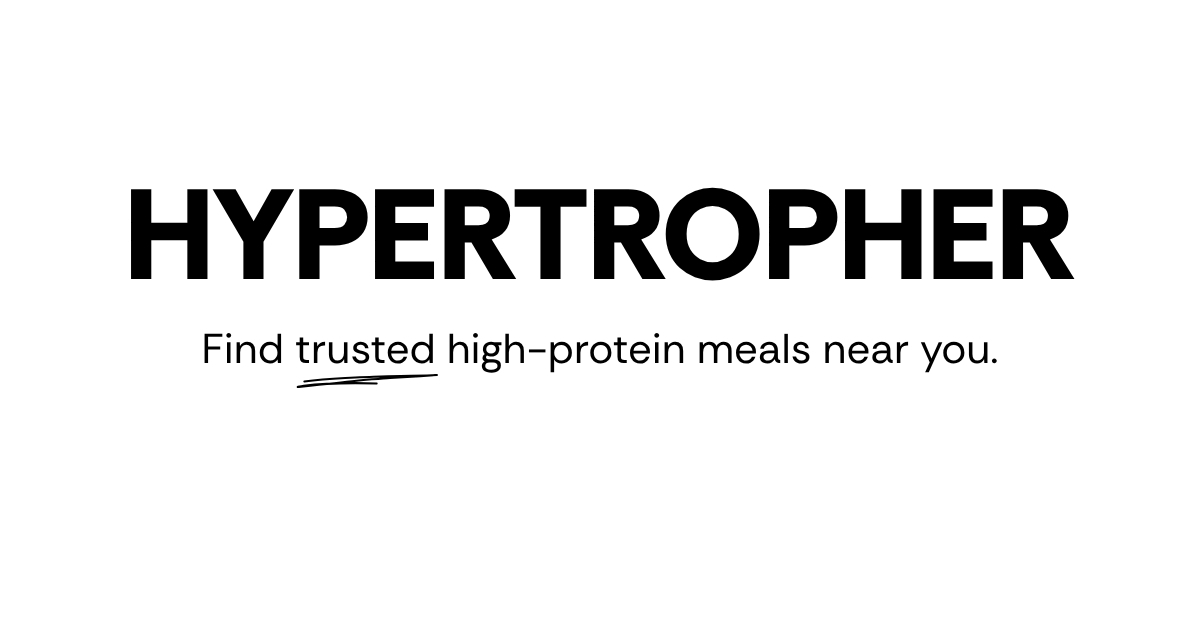
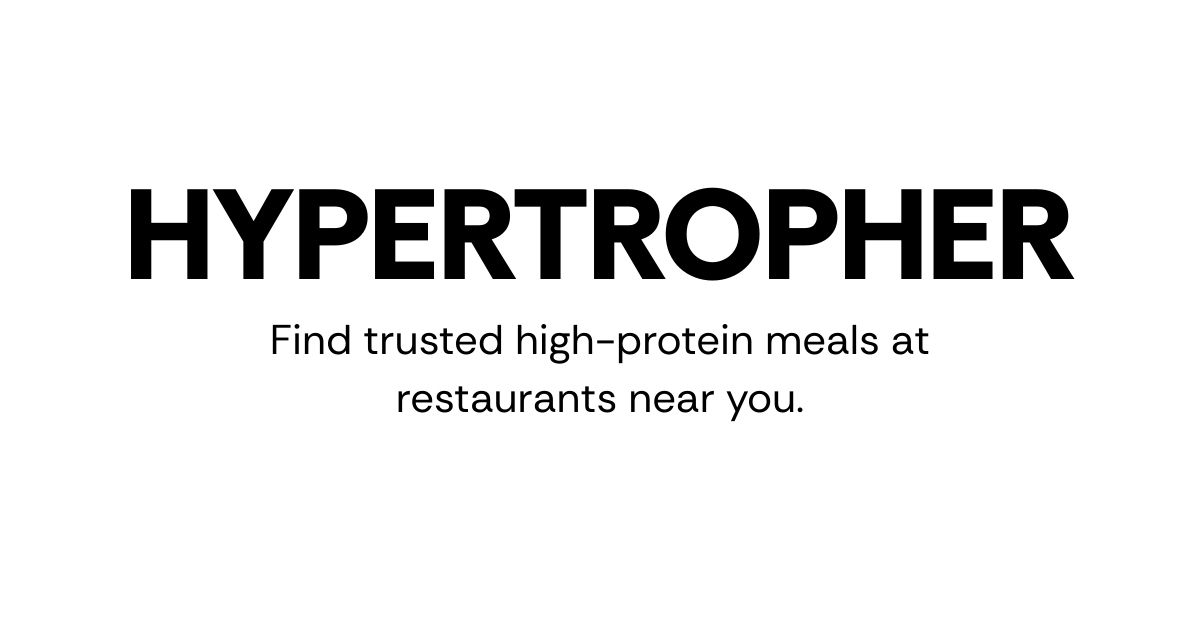
Updated og image and added to readme

Changed region(s): [[0.1542, 0.5127, 0.8325, 0.6635]]

diff --git a/README.md b/README.md
@@ -1,12 +1,14 @@
 ## Hypertropher
 
+![Hypertropher featured image](./public/og-image.png)
+
 Hypertropher is a private, invite-only web app for serious gym-goers who rely on outside food and want a **trusted, shared database of high‑protein dishes**.  
 Instead of wasting money on trial‑and‑error meals, friends log dishes they've actually tried (with ratings, photos, and comments) so everyone can quickly find reliable, high‑protein options in their city.
 
 ### Who it’s for
 - People who train regularly and care about protein intake.
-- Friends who want to share their best dishes with a small, trusted circle.
-- Users who mostly eat from restaurants / delivery apps and don’t want to cook every meal.
+- People who mostly eat from restaurants / delivery apps and don’t want to cook every meal.
+- People who want to share their trusted dishes with their friends.
 
 ### What it does
 - **Dish discovery**
